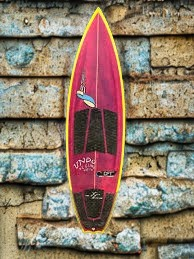
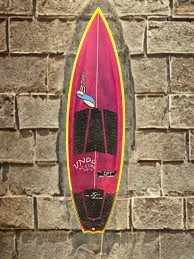
Mudar o background da imagem enviada para o backend

diff --git a/front/src/pages/home/script.js b/front/src/pages/home/script.js
@@ -57,6 +57,21 @@ class ChamarServidorService {
         console.error("Erro ao enviar imagem:", error);
       })
   }
+
+  mudarBackground(imagem) {
+    fetch("http://localhost:8000//change-background", {
+      method: "POST",
+      body: imagem,
+    })
+      .then((response) => response.json())
+      .then((data) => {
+        // Manipule a resposta do backend, se necessário
+        console.log(data);
+      })
+      .catch((error) => {
+        console.error("Erro ao enviar imagem:", error);
+      })
+  }
 }
 
 const chamarServidorService = new ChamarServidorService()
@@ -90,7 +105,7 @@ document.addEventListener('DOMContentLoaded', function () {
     var formData = new FormData()
     formData.append('image', imageFile)
     // Enviar imagem para o servidor
-    chamarServidorService.enviarImagem(formData)
+    chamarServidorService.mudarBackground(formData)
     
     // Função para fazer uma solicitação ao servidor
     chamarServidorService.enviarNomeProduto(word)

diff --git a/back/apiClip.py b/back/apiClip.py
@@ -1,7 +1,7 @@
 from senhaClip import API_KEY
 import requests
 
-def apiSetBackGround(nomeArquivo, prompt):
+def apiChangeBackGroundTest(nomeArquivo, prompt):
     # Link da API
     link = "https://clipdrop-api.co/replace-background/v1"
     pathImagem = "imagensSaida/" + nomeArquivo  
@@ -28,8 +28,35 @@ def apiSetBackGround(nomeArquivo, prompt):
     else:
         r.raise_for_status()
 
+def apiChangeBackGround(image_file, prompt):
+    # Link da API
+    link = "https://clipdrop-api.co/replace-background/v1"
+    
+    nomeArquivo = "teste.jpeg"
 
-def apiRemoveBackGround(nomeArquivo): 
+    # Vai abrir a imagem e colocar na variável image_data
+    image_data = image_file.read()
+
+    # Comunicação com a API
+    r = requests.post(link,
+    files = {
+        'image_file': ('teste.jpg', image_data, 'image/jpeg'),
+        },
+    data = {'prompt': prompt},
+    headers = { 'x-api-key': API_KEY}
+    )
+
+    # Caso ocorra tudo certo, a imagem será salva na pasta imagensSaida
+    if r.ok:
+        pathSaida = "imagensBackground/" + nomeArquivo
+        with open(pathSaida, 'wb') as output_file:
+            output_file.write(r.content)
+        print("Imagem de saída salva com sucesso!")
+    else:
+        r.raise_for_status()
+
+
+def apiRemoveBackGroundTest(nomeArquivo): 
     # Link da API
     link = "https://clipdrop-api.co/remove-background/v1"
     pathImagem = "imagensEntrada/" + nomeArquivo  
@@ -51,16 +78,39 @@ def apiRemoveBackGround(nomeArquivo):
         pathSaida = "imagensSaida/" + nomeArquivo
         with open(pathSaida, 'wb') as output_file:
             output_file.write(r.content)
-        print("Imagem de saída salva com sucesso!")
+        print("Background definido com sucesso!")
+    else:
+        r.raise_for_status()
+
+def apiRemoveBackGround(image_file): 
+    # Link da API
+    link = "https://clipdrop-api.co/remove-background/v1"
+
+    nomeArquivo = "teste.jpeg"
+    
+    # Vai abrir a imagem e colocar na variável image_data
+    image_data = image_file.read()
+
+    # Comunicação com a API
+    r = requests.post(link,
+    files = {
+        'image_file': ('teste.jpg', image_data, 'image/jpeg'),
+        },
+    headers = { 'x-api-key': API_KEY}
+    )
+
+    # Caso ocorra tudo certo, a imagem será salva na pasta imagensSaida
+    if r.ok:
+        print("Background removido com sucesso!")
+        return r
     else:
         r.raise_for_status()
 
 
 
-
 prompt = "On the wall of a house by the sea with a window nearby"
 nomeArquivoImagem = "prancha.jpeg"
-apiSetBackGround(nomeArquivoImagem, prompt)
+apiChangeBackGroundTest(nomeArquivoImagem, prompt)
 
 
-# apiRemoveBackGround(nomeArquivoImagem)
+# apiRemoveBackGroundTest(nomeArquivoImagem)

diff --git a/back/servidor.py b/back/servidor.py
@@ -1,6 +1,6 @@
 from flask import Flask, request, jsonify
 import json
-from apiClip import apiRemoveBackGround
+from apiClip import apiChangeBackGround
 from apiChat import apiChatGpt
 from flask_cors import CORS
 
@@ -24,6 +24,20 @@ def upload_image():
     except Exception as e:
         return jsonify({"error": str(e)}), 500
 
+@app.route("/change-background", methods=["POST"])
+def change_img_bg():
+    try:
+        image_file = request.files["image"]  # Obtém o arquivo de imagem do formulário
+
+        # Faça algo com o arquivo de imagem, como salvar no servidor
+        # Por exemplo, para salvar a imagem em um diretório chamado "uploads":
+        prompt = "On the wall of a house by the sea with a window nearby"
+        apiChangeBackGround(image_file, prompt)
+
+        return jsonify({"message": "Imagem enviada com sucesso!"})
+    except Exception as e:
+        return jsonify({"error": str(e)}), 500
+
 @app.route('/', methods=['POST', 'OPTIONS'])
 def handle_request():
     if request.method == 'OPTIONS':
@@ -41,9 +55,7 @@ def handle_request():
         funcao = data.get('funcao')
         parametro = data.get('parametro')
         
-        if funcao == "apiRemoveBackGround":
-            resultado = apiRemoveBackGround(parametro)
-        elif funcao == "apiChatGpt":
+        if funcao == "apiChatGpt":
             resultado = apiChatGpt(parametro)
         elif funcao == "funcao_1":
             resultado = funcao_1(parametro)
